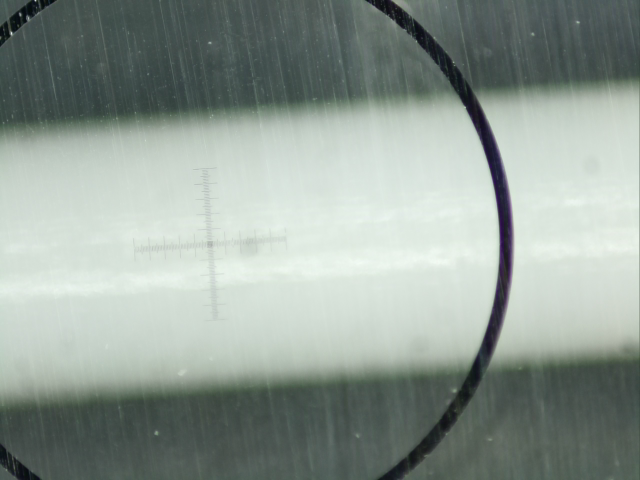
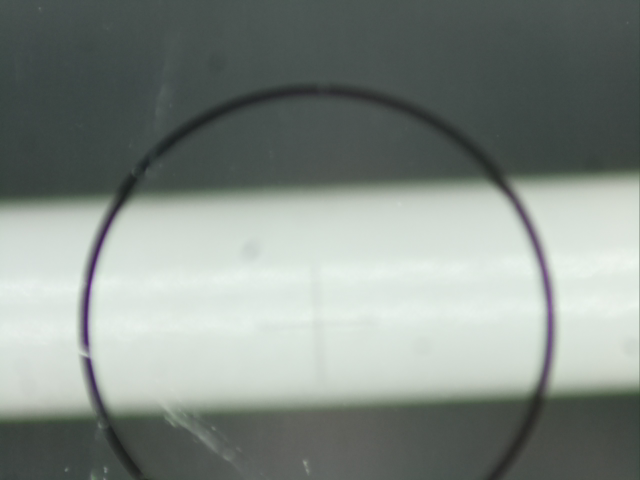
Completed camera calibration section in README

diff --git a/cam_calibration.cpp b/cam_calibration.cpp
@@ -33,7 +33,7 @@ int main( int argc, char** argv )
 	return -1;
     }
     
-    cout << "Focus the camera lens on the camlibration slide reticle. Press Space or S to capture the current video frame." << endl;
+    cout << "Focus the camera lens on the calibration slide reticle. Press Space or S to capture the current video frame." << endl;
     cout << "Press Esc to exit the program." << endl;
   
     while (true)

diff --git a/README.md b/README.md
@@ -74,22 +74,18 @@ The finished setup looks like this:
 
 ## Computer Vision
 
-In order to accurately measure the whisker diameter, the camera and lens must be first focused on a calibration slide's  1mm x 1mm reticle stacked on top of a sample of the plastic filament.
+In order to accurately measure the whisker diameter, the camera and lens must be first focused on a calibration slide's 1mm x 1mm reticle stacked on top of a sample of the plastic filament.
 
-![Whisker Calibration](media/whisker_calibration.png)
-
-Next, I used the script `cam_calibration.cpp` to measure the reticle in pixels and calculate pixels/μm (displayed below). This project is still a work in progress, so the next step is to finish the script `whisker.cpp` which takes the pixels/μm constant, measures the diameter of the whisker section that is directly outside the oven, and performs the velocity control loop.
-
-![Camera Calibration](media/cam_calibration.png)
+Next, I used the script `cam_calibration.cpp` to measure the length of the reticle in pixels and calculate pixels/μm (displayed below).
 
 ## Repository Structure
 
     .
     ├── cam_calibration.cpp      # Outputs the pixels/μm constant when the calibration slide
-    ├                             reticle is in view of the camera
+    ├                              reticle is in view of the camera
     ├── whisker.cpp              # Velocity control loop
-    ├── data/                     # Data from each whisker drawing trial is stored here in .csv files
-    ├── media/                    # Image files folder
+    ├── data/                    # Data from each whisker drawing trial is stored here in .csv files
+    ├── media/                   # Image files folder
     └── README.md
 
 ## Installation
@@ -110,7 +106,7 @@ WARNING: Keep hands and cords away from the linear actuator while it is powered 
 To use the RasPi, you can either connect a monitor to it via its HDMI port along with a mouse and keyboard, or you can connect remotely by using SSH. To SSH using Linux or Mac OS, make sure the RasPi is powered on, and type in your Linux / Mac:
 
 ```shell
-`ssh -X pi@<IP>`
+ssh -X pi@<IP>
 ```
 
 where you replace `<IP>` with your RasPi's IP address. The `-X` is so that you can open up and use GUIs remotely. You will be prompted to type in your RasPi password. After powering on the RasPi, it may take a minute until it allows you to connect, so if you eget an error saying `ssh: connect to host <IP> port 22: No route to host`, keep trying the ssh command until you are prompted for your password. If you need help determining your RasPi's IP address, use a different OS for remote access, or need help troubleshooting, please see the [Raspberry Pi documentation on SSH](https://www.raspberrypi.org/documentation/remote-access/ssh/). 
@@ -118,7 +114,7 @@ where you replace `<IP>` with your RasPi's IP address. The `-X` is so that you c
 To shutdown and exit the RasPi remotely:
 
 ```shell
-`sudo shutdown -h -P now`
+sudo shutdown -h -P now
 ```
 
 ### Tic GUI and Motor Settings
@@ -128,7 +124,7 @@ Connect the Tic Motor Controller to the RasPi 4 via USB. Power on the RasPi. Whe
 ticgui
 ```
 
-Navigate over to the Input an motor settings tab. In the Motor box, make sure that the settings are set to:
+Navigate over to the Input an motor settings tab. In the "Motor" box, make sure that the settings are set to:
 - Max Speed: 180000000
 - Starting Speed: 2500
 - Max Acceleration: 1800000
@@ -143,17 +139,30 @@ Leave the Tic GUI open for when you are calibrating the camera and drawing whisk
 The purpose of `cam_calibration` is to measure how many pixel lengths equal a micron while a whisker filament and a calibration slide are in focus of the camera. The resulting number is saved in `ppum.txt` as a decimal. This process only needs to be done once, given that the camera lens' focus is not adjusted any time after calibrating.
 
 #### Calibration Instructions
-1. Plug in the power adapter connected to the Tic. Open the Tic Gui. In the "Set Target" box, select the "Set velocity" radio button and the "Return slider to zero when it is released" checkmark button. Click the green Resume button at the bottom of the GUI to energize the motor. Use the slider to move the actuator to its greatest position before reaching the end of the track. You can view the current motor position in the "Operation" box.
-2. Cut a length of 3D printing filament ~500 mm long. PolyMax<sup>TM</sup> PC was used for this project (1.75 mm diameter, 113&deg;C glass transition temperature). Feed the filament through the front of the oven. Clip one end of the filament to the metal binder clip. Allow ~4 cm between between the oven exit and the binder clip. Secure the other end with a vice that is attached to the table.
-3. Cut a generous portion of aluminum foil in two. Fold both in half six times.  
+1. Plug in the power adapter connected to the Tic. Open the Tic GUI. In the "Set Target" box, select the "Set velocity" radio button and the "Return slider to zero when it is released" checkmark button. Click the green Resume button at the bottom of the GUI to energize the motor. Use the slider to move the actuator to its greatest position before reaching the end of the track. You can view the current motor position in the "Operation" box.
+2. Cut a length of 3D printing filament ~500 mm long. PolyMax<sup>TM</sup> PC was used for this project (1.75 mm diameter, 113&deg;C glass transition temperature). Feed the filament through the front of the oven so that one end of the filament is exposed at either end of the oven. Clip one end of the filament to the metal binder clip. Allow ~4 cm between between the oven exit and the binder clip. Secure the other end with a vice that is attached to the table.
+3. Cut a generous portion of aluminum foil in two. Fold both in half six times, and lay one on each side of the exposed filament. Rest the calibration slide on the filament and two aluminum foil pieces so that the "1 DIV = 0.01mm" reticle is centered on the filament, shown below. Turn on the LED ring lamp.
 
+![Camera Calibration Setup](media/cam_cal_setup.png)
+
+4. From your RasPi command line:
 ```shell
 # Change to the whisker directory
 cd Documents/whisker_control
 # Compile cam_calibration (only need to do this once after editing cam_calibration.cpp)
 g++ "cam_calibration.cpp" `pkg-config libpololu-tic-1 --cflags --libs opencv` -o "cam_calibration"
+# Run cam_calibration
+./cam_calibration
 ```
+5. A window showing the camera video stream will appear. Center the filament and reticle, and straighten the crosshairs so that the x-axis is as horizontal as possible. Using the maginfication dial on the microscope, focus the camera lens so that the edges of the filament are as focused as possible while the reticle is still visible, yet blurry, as shown below. Press Space or S to capture the current video frame.
 
+![Whisker Calibration](media/whisker_calibration.png)
+
+6. A second window will appear that shows the image you just captures. Use your mouse to drag and drop a ROI box around the blurry reticle. Draw the box as tight as possible, like in the image below, to get an accurate measuremnt of the height and width of the crosshairs. To retry the process, press Esc and rerun the program. Once you have drawn an acurate ROI box, press the Spacebar to view the cropped image in a third window. Press the Spacebar again to save the Pixels Per Micrometer measurement to ppum.txt, or press Esc to cancel.
+
+![ROI](media/roi.png)
+
+The camera is now calibrated, and you are ready to draw whiskers!
 
 ### Whisker Drawing
 ```shell
